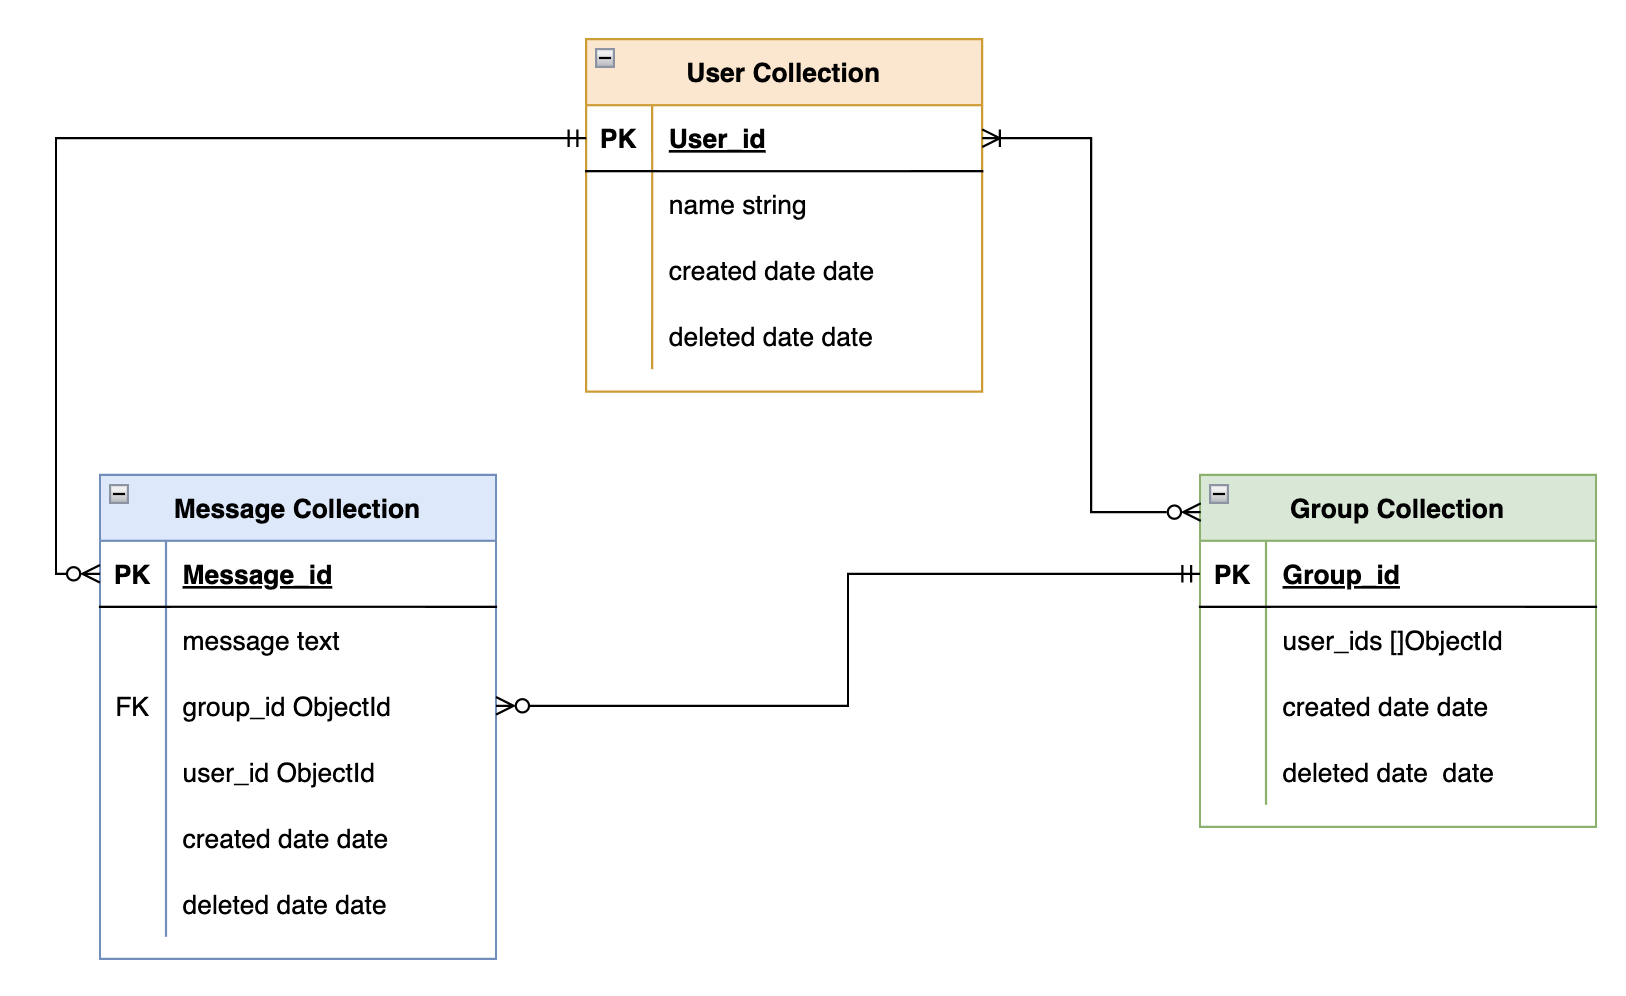
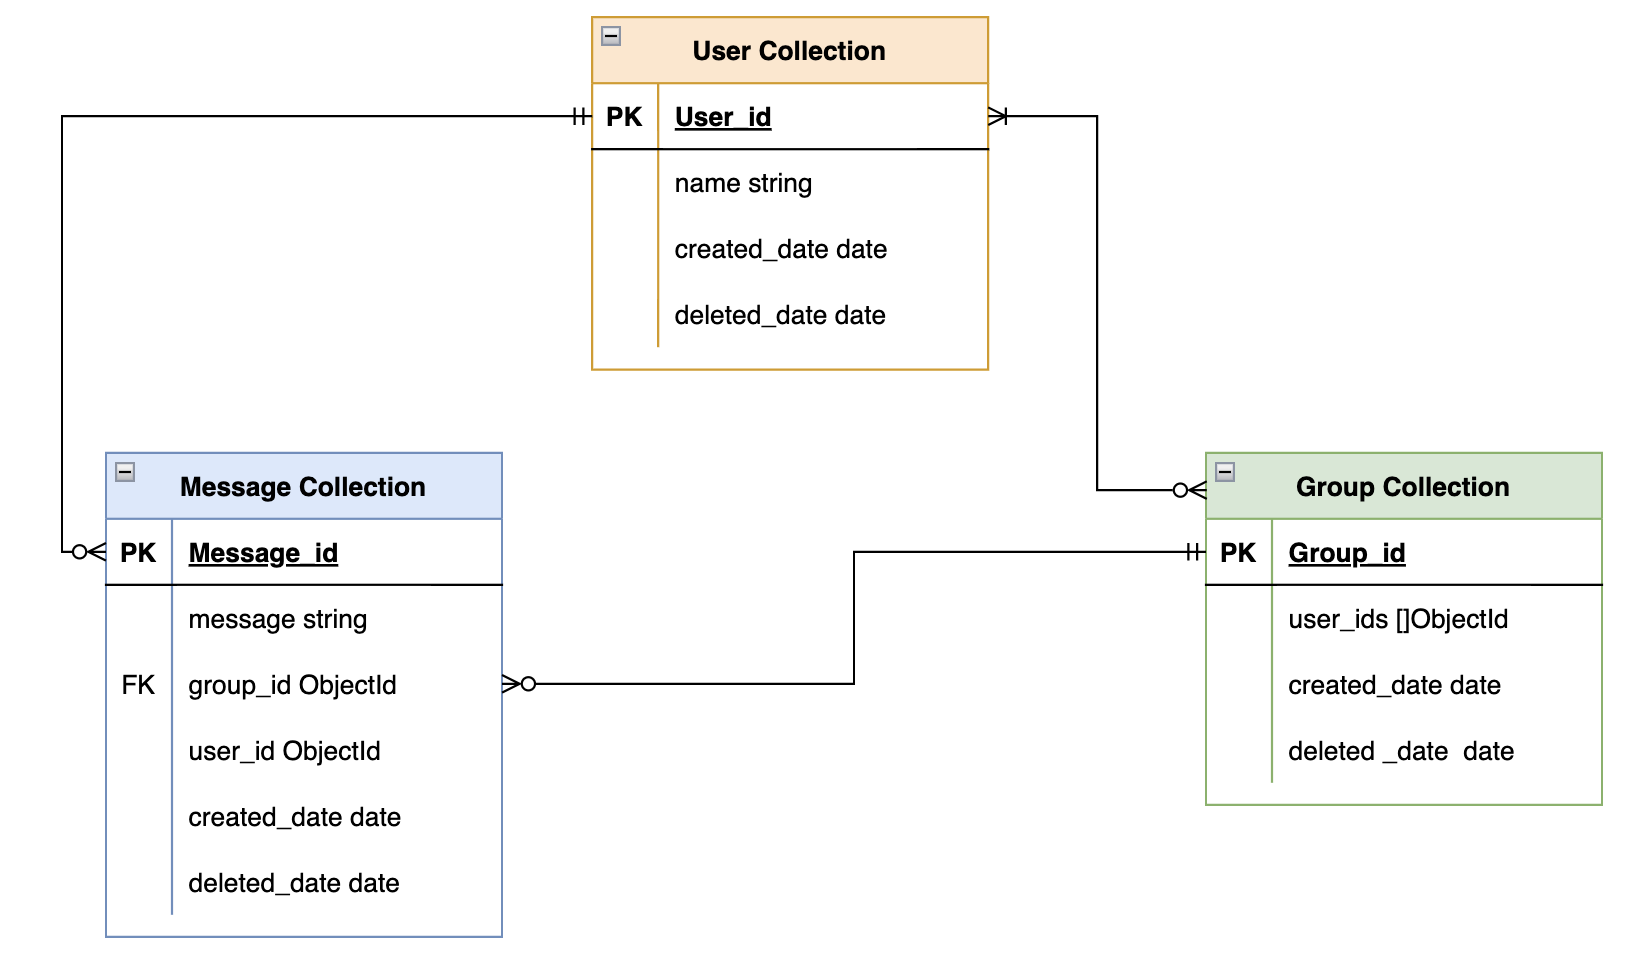
add diagrams description

diff --git a/README.md b/README.md
@@ -31,27 +31,77 @@ The TikTalk development team believes in building applications for everyone. Alt
 
 ### Dataflow diagram
 
+This diagram shows the dataflow for the chat application. There are three sections of dataflow, user flows, message flows and group flows.
+
 ![R2](docs/diagrams/Dataflow%20diagram.png)
 
 ### Sequence Diagram
 
-#### User logon
+#### User sign in
+
+This diagram shows a user sending a POST request with their username and password to the Server. The Server sends the details to the Authentication Server to check the username and password. The Authentication Server will return a response containing a JWT and Refresh token or an error which will be returned to the Client from the Server.
 
 ![R2](docs/diagrams/client%20logon-%20sequence%20diagrams%20.png)
 
 #### User POST message (authenticated)
 
+When a user is signed in, a user can perform actions such as sending a message. This diagram shows a user sending a message. The client sends a POST request containing a message and JWT to the Server. The Server will authenticate the JWT by sending the JWT to the Authentication Server. If authenticated, the Server will store the message in the DB and confirm to the client.
+
 ![R2](docs/diagrams/%20client%20create%20a%20message-%20sequence%20diagrams.png)
 
+#### User GET group message history (authenticated)
+
+Every few seconds the client will poll the Server to get the latest message history for a group. The client sends a request containing a group ID with a JWT to the Server. The Server will authenticate the JWT with the Authentication Server. If authenticated, the Server will get group details from the DB and check if the user is part of the requested group. If the user is part of the group, the Server will get the group's message history from the DB and return it to the Client.
+
+![R2](docs/diagrams/message%20history.png)
+
 ### Getting and using JWT
+
+This diagram shows the user signing up. The client sends a POST request with the user information to the Server. The Server sends the user information to the Authentication server to create an account. Once the account has been created and the Server receives confirmation, the Server signs the user in and receives a JWT and refresh token for the new user. The Server then returns to sign up confirmation, JWT and refresh token to the Client.
+
+The Client can then continue to send requests to the Server using the JWT.
 
 ![R2](docs/diagrams/getting%20and%20using%20an%20Application%20access%20token.png)
 
 ### Renew user JWT
 
+This diagram shows how the Client can use the refresh token when the JWT expires. The Client sends a request to exchange the Refresh token for a new JWT to the Server. The Server forwards the refresh token to the Authentication Server and returns a response and a JWT. The Server then returns the new JWT to the client.
+
+The client can the continue making API requests with the new JWT.
+
 ![R2](docs/diagrams/Refresh%20Tokens.png)
 
-#### Database ERD
+### Database ERD
+
+There are 3 collections in the database for this application.
+
+#### User collection
+
+This collection contains document for each user, containing the following properties:
+
+- display_name string: The display name in the app of the user
+- created_date date: The date that the document was created
+- deleted_date date: The date that the document was delete. Acting as a soft delete flag. If empty, the document has not been deleted.
+
+#### Message collection
+
+This collection contains a document for each message sent by a user, containing the following properties:
+
+- message_id ObjectId: A unique identifier for the message
+- message string: containing the message
+- group_id ObjectId: containing the group ID that this message belongs to
+- user_id ObjectId: containing the user ID for the user that sent the message
+- created_date date: The date that the document was created
+- deleted_date date: The date that the document was delete. Acting as a soft delete flag. If empty, the document has not been deleted.
+
+#### Group collection
+
+This collection contains a document for each group created by a user, containing the following properties:
+
+- group_id ObjectId: A unique identifier for the group
+- user_ids []ObjectId: An array of user IDs that belong to this group
+- created_date date: The date that the document was created
+- deleted_date date: The date that the document was delete. Acting as a soft delete flag. If empty, the document has not been deleted.
 
 ![R2](docs/diagrams/ERD.png)
 
@@ -61,9 +111,19 @@ The TikTalk development team believes in building applications for everyone. Alt
 
 ### Top level architecture diagram
 
+This is a top level architecture diagram. The application runs on a MERN stack. The client will use React to make HTTP requests to an API server running Express on an AWS EC2 instance. Each request is authenticated against a Firebase authentication server. MongoDB is used as a backend database which runs as an Atlas DB cluster.
+
 ![R3](docs/diagrams/Top%20level%20architecture%20diagram.png)
 
 ### Detailed architecture diagram
+
+This is a details architectural diagram of the application stack.
+
+The client side part of the application is hosted on Netlify. This consists of CSS, HTML, Frontend libraries together with the web app developed using React.
+
+The client communicates over HTTP requests to an Express backend running on an AWS EC2 instance. Requests are authenticated against Firebase running in Google Cloud. Once authenticated, data is retrieved from the database using Mongoose to create a abstraction model of the data.
+
+The database is hosted in MongoDB's Atlas. It consists of a DB cluster containing 3 databases. One primary and two secondary servers to redundancy.
 
 ![R3](docs/diagrams/Detailed%20architecture%20diagram.png)
 
